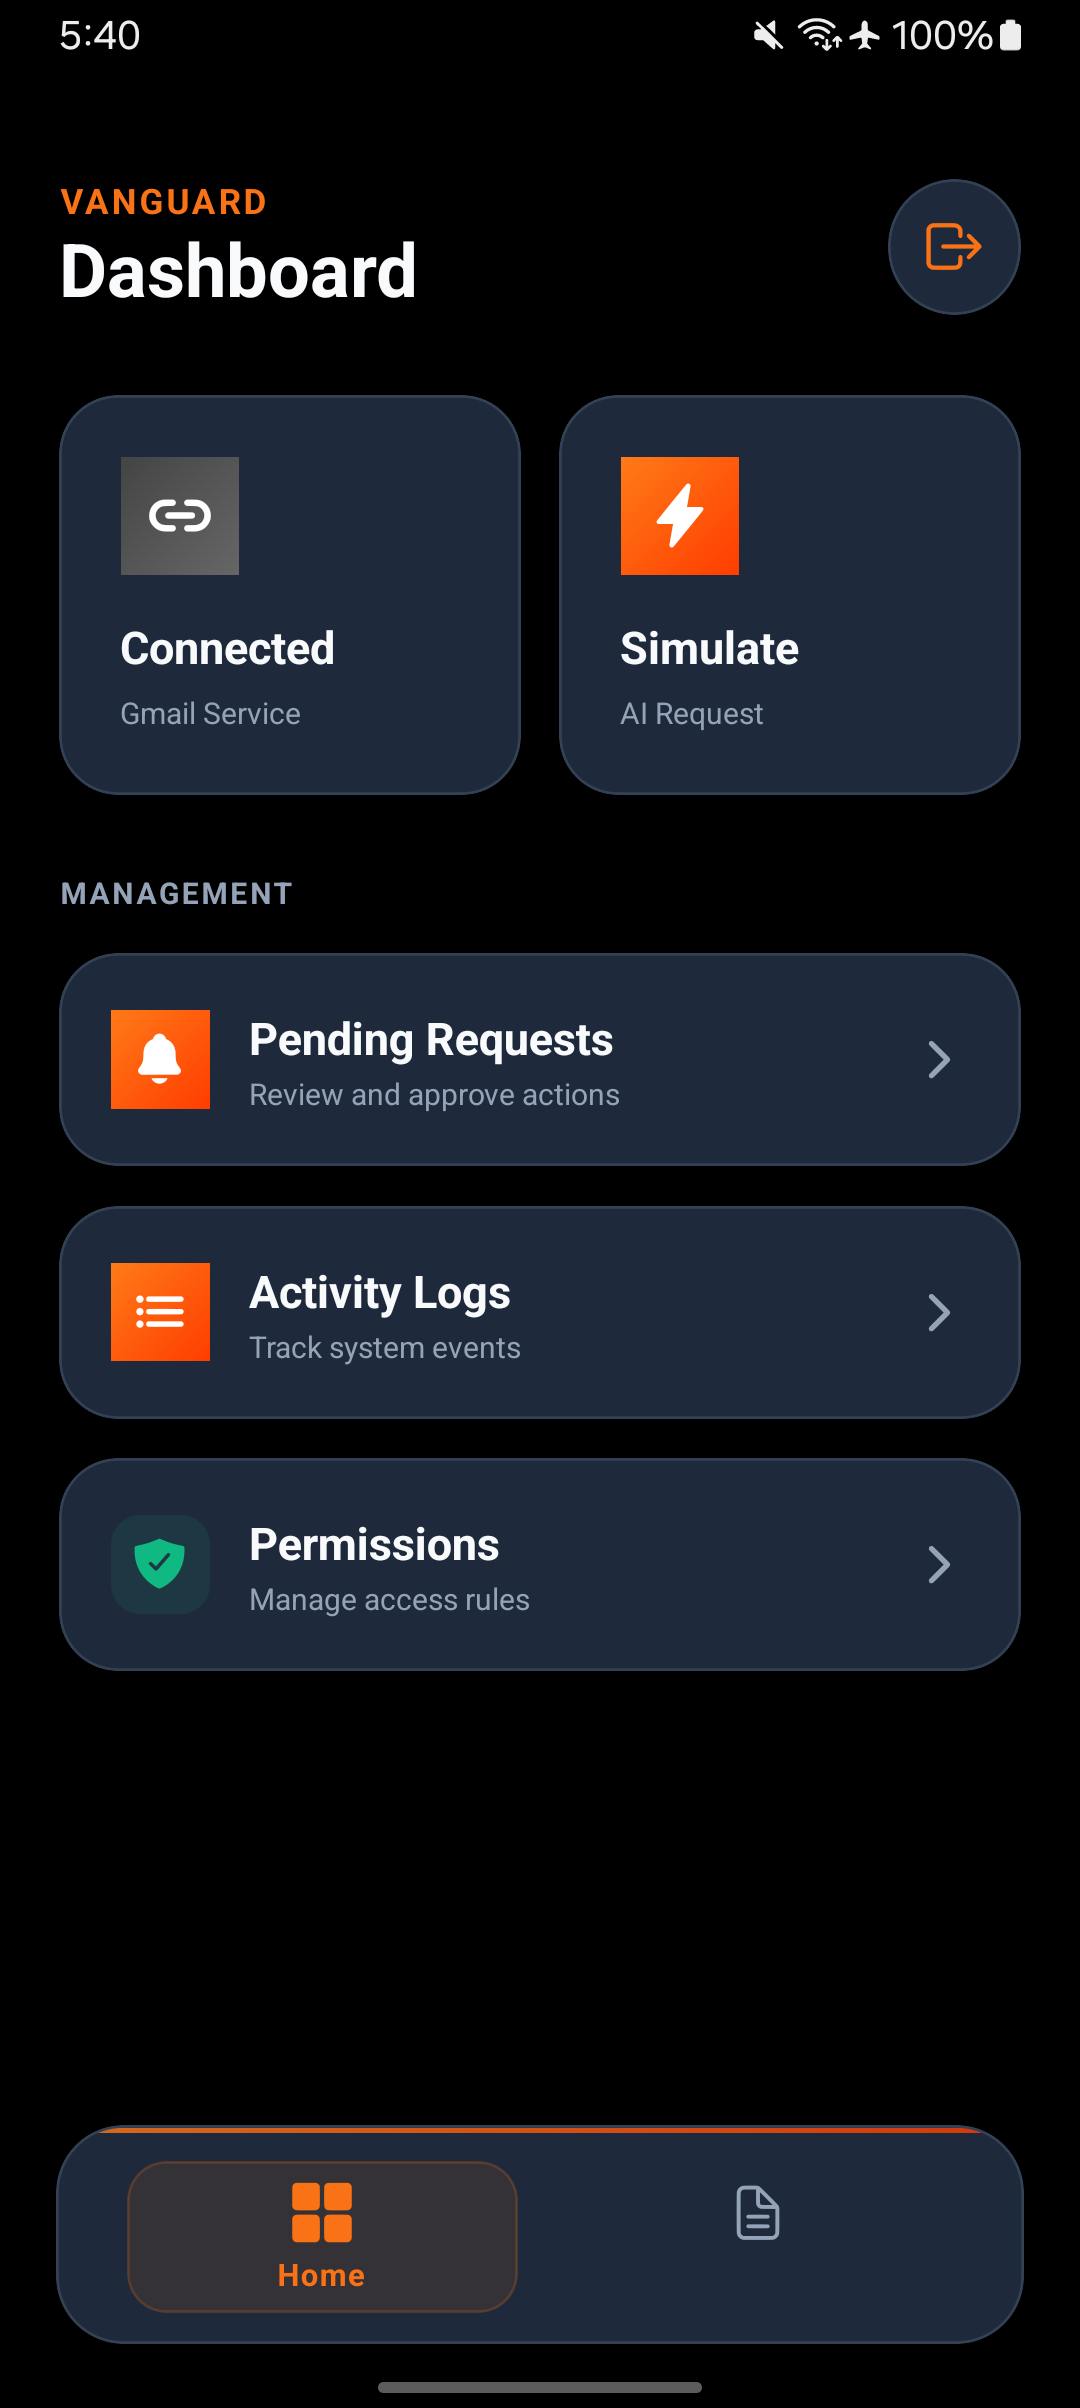
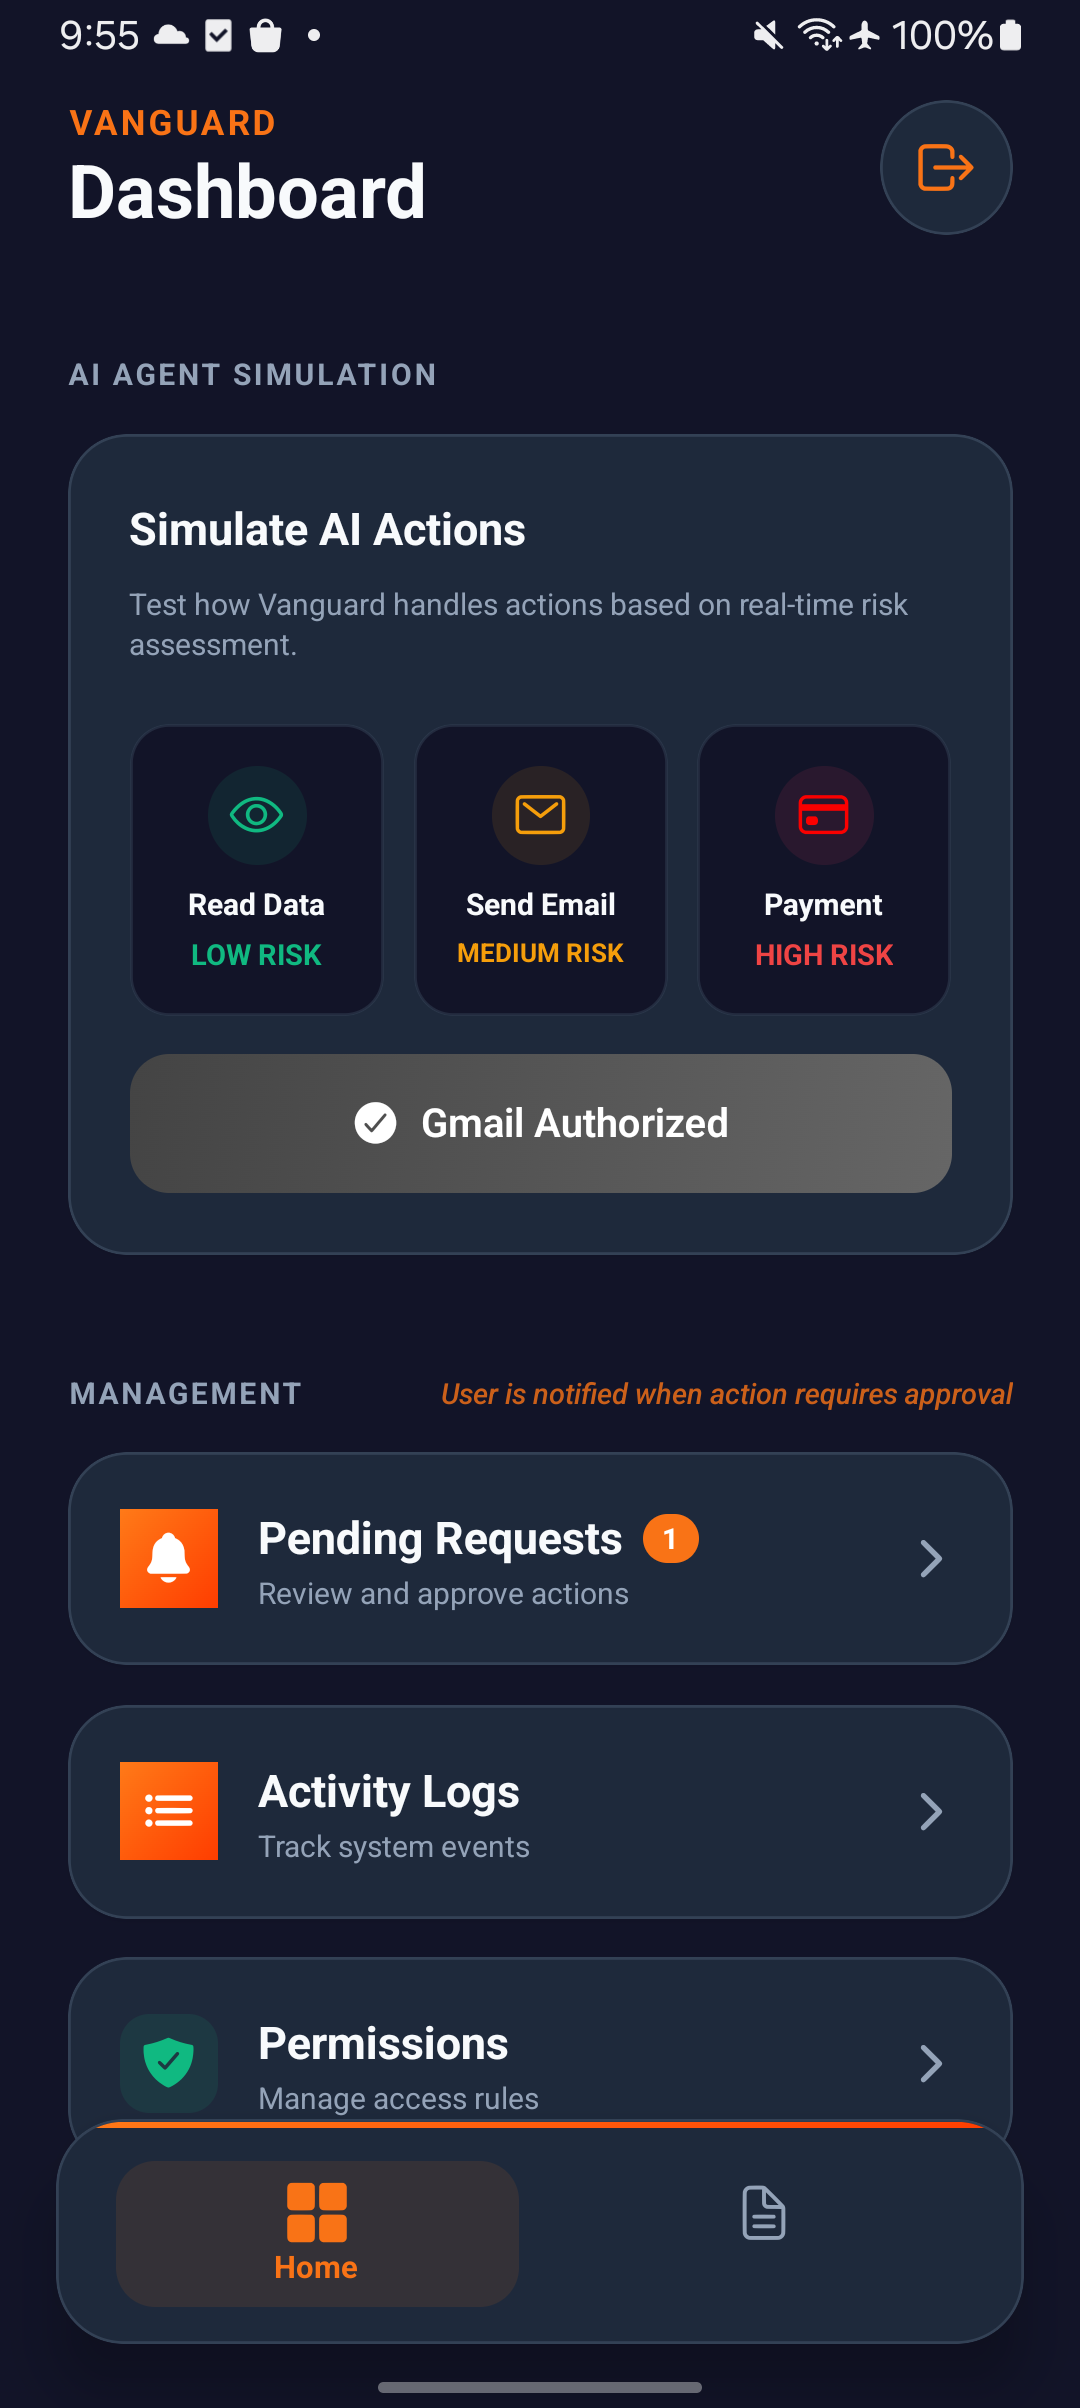
updated readme

diff --git a/Readme.md b/Readme.md
@@ -1,30 +1,70 @@
-# <img src="app/assets/images/logo.png" width="40" height="40" align="center" style="margin-right: 10px;"> Vanguard
+# <img src="screenshot/logo.png" width="40" height="40" align="center" style="margin-right: 10px;"> Vanguard
 
-### Secure AI Action Proxy with Permission Intelligence
+### The Permission Layer for Sovereign AI Agents
+
+**Secure Intermediary Proxy | Permission Intelligence | Auth0 Token Vault Integration**
 
 ---
 
 ## 🧠 The Problem
 
-As AI agents become more autonomous, they increasingly need to act on behalf of users—sending emails, managing calendars, or accessing sensitive data. However, letting an AI directly touch real-world APIs is a security nightmare. There is no fine-grained control, no audit trail, and no user-in-the-loop mechanism for high-stakes actions.
+AI agents increasingly act on behalf of users—sending emails, accessing data, and triggering real-world actions. However, letting an AI directly touch real-world APIs is a security nightmare. There is no runtime control, no audit trail, and no user approval for high-risk actions.
 
 ## 🛡 The Vanguard Solution
 
-**Vanguard** is a secure intermediary layer designed for the AI era. It intercepts every action an AI agent attempts, evaluates it against a robust permission engine, and securely executes it using Auth0-powered token vaulting.
+**Vanguard** is a secure intermediary layer designed for the AI era. It intercepts every action an AI agent attempts, evaluates it against a robust permission engine, and securely executes it using **Auth0** for identity and a **Vault-based token access model**.
 
-- **Stop Uncontrolled AI Actions**: Every API call is gated.
+👉 **Vanguard transforms AI systems from execution-first → control-first.**
+
+- **Stop Uncontrolled AI Actions**: Every API call is gated by default.
 - **User-Authored Decisions**: Users decide if an action is "Allowed Once", "Always Allowed", or "Denied".
 - **Zero-Trust Execution**: The AI never sees your Gmail/Slack tokens. Vanguard handles the execution securely.
 
 ---
 
 ## Screenshots
-<div align="center"> <img src="screenshot/login.png" width="250" alt="Login Screen"/> <img src="screenshot/login-web.png" width="250" alt="Web Login"/> <img src="screenshot/dashboard.png" width="250" alt="Dashboard"/>
+
+<div align="center"> 
+<img src="screenshot/login.png" width="250" alt="Login Screen"/> 
+<img src="screenshot/login-web.png" width="250" alt="Web Login"/> 
+<img src="screenshot/dashboard-1.png" width="250" alt="Dashboard"/>
+<img src="screenshot/dashboard.png" width="250" alt="Dashboard"/>
 
 <br/><br/>
 
-<img src="screenshot/pending-permission.png" width="250" alt="Pending Permissions"/> <img src="screenshot/permissions.png" width="250" alt="Permissions"/> <img src="screenshot/request-success.png" width="250" alt="Request Success"/> </div>
+<img src="screenshot/pending-permissions.png" width="250" alt="Pending Permissions"/> 
+<img src="screenshot/permissions.png" width="250" alt="Permissions"/> 
+<img src="screenshot/low-risk.png" width="250" alt="Request Success"/> 
+<img src="screenshot/logs.png" width="250" alt="Request Success"/> 
+</div>
 
+---
+
+## 🧪 Demo Flow
+
+1. **User triggers** an AI action.
+2. **Request** is sent to Vanguard backend.
+3. **Permission engine** evaluates risk and matching rules.
+4. **High-risk actions** require user approval (simulated via app notification).
+5. **Token retrieved** securely from backend (Vault layer backed by Auth0 identity).
+6. **Action executed** by Vanguard on behalf of the user.
+7. **Logs updated** for full audit transparency.
+
+---
+
+## 🔐 Security Principle
+
+Vanguard applies the **Principle of Least Privilege** to AI systems.
+
+Instead of giving AI unrestricted access, every action is:
+
+- **Explicitly authorized** by the user.
+- **Scoped** to the specific task.
+- **Executed** through a secure, isolated layer.
+
+👉 This shifts AI systems from **implicit trust → explicit control**.
+
+---
 
 ## 🔥 Key Features
 
@@ -33,7 +73,8 @@ As AI agents become more autonomous, they increasingly need to act on behalf of 
 Vanguard uses **Auth0** for seamless, enterprise-grade authentication.
 
 - **PKCE Flow**: Secure mobile authentication via native SDK.
-- **Token Vault**: Securely stores and retrieves service-specific tokens (Gmail, Slack, etc.) without exposing credentials to the AI.
+- **Token Vault**: Securely stores and retrieves service-specific tokens (Gmail, Slack, etc.).
+- **👉 Tokens are never exposed to the AI agent or frontend**—only Vanguard can access them after authorization.
 
 ### 🛑 2. Permission Intelligence System
 
@@ -54,22 +95,33 @@ Full traceability. Every decision (approved or denied) is logged with:
 
 ---
 
-## 🧱 Technical Architecture
+## 🏗 Technical Architecture
 
 ```mermaid
 graph TD
-    A[AI Agent] -->|Request Action| B[Vanguard Gateway]
+    A[Sovereign AI / OpenClaw] -->|1. Action Request| B[Vanguard Gateway]
     B --> C{Permission Engine}
-    C -->|Rules Match| D[Allowed]
     C -->|No Match| E[Pending User Approval]
-    E -->|Push Notification| F[Vanguard App]
-    F -->|User Decides| D
-    D -->|Retrieve Scoped Token| G[Auth0 Token Vault]
-    G -->|Signed Request| H[External API: Gmail/Slack/etc.]
-    H -->|Result| B
-    B -->|Response| A
-    B -->|Write Log| I[(Audit Logs)]
+    E -->|2. Push Notification| F[Vanguard Mobile App]
+    F -->|3. User Tap: Approve| D
+    C -->|Rule: Always Allow| D[Authorized]
+
+    D -->|4. Request Scoped Token| G[Auth0 Token Vault]
+    G -->|5. Short-lived Access Token| B
+    B -->|6. Signed API Call| H[External API: Gmail/Slack]
+    H -->|7. Result| B
+    B -->|8. Success Response| A
+    B -->|9. Write Log| I[(Audit Logs)]
 ```
+
+---
+
+## 🛠 Tech Stack
+
+- **Mobile:** [Expo](https://expo.dev/) (React Native) with [NativeWind](https://nativewind.dev/) (Tailwind CSS) for a modern, responsive UI.
+- **Backend:** [NestJS](https://nestjs.com/) (TypeScript) providing a robust, scalable REST API.
+- **Identity:** [Auth0 for AI Agents](https://auth0.com/) (Token Vault, M2M Authentication, Native SDK).
+- **AI Logic:** OpenAI GPT-4o-mini (used exclusively for intent parsing into JSON).
 
 ---
 
@@ -77,48 +129,51 @@ graph TD
 
 ### Prerequisites
 
-- **Node.js** (v18+)
-- **Expo Go** (for mobile development)
-- **Auth0 Account** (configured for Native and Server applications)
+- Node.js (v18+)
+- Expo Go on your mobile device
+- An Auth0 Tenant with Token Vault enabled
 
-### 1. Server Setup (NestJS)
+### 1. Backend Setup
 
 ```bash
-# Navigate to server
 cd server
-
-# Install dependencies
 npm install
-
-# Configure your .env (Auth0 Domain, Client ID, Secret)
+# Configure .env with AUTH0_DOMAIN, CLIENT_ID, and VAULT_API_URL
 npm run start:dev
 ```
 
-### 2. App Setup (Expo/React Native)
+### 2. Mobile App Setup
 
 ```bash
-# Navigate to app
 cd app
-
-# Install dependencies
 npm install
-
-# Ensure you have your Auth0 config in .env
 npx expo start
 ```
 
 ---
 
-## 🛠 Tech Stack
+## 🗺 Roadmap
 
-- **Mobile**: [Expo](https://expo.dev/), [React Native](https://reactnative.dev/), [NativeWind](https://nativewind.dev/), [Zustand](https://docs.pmnd.rs/zustand/), [Auth0 Native SDK](https://github.com/auth0/react-native-auth0).
-- **Backend**: [NestJS](https://nestjs.com/), TypeScript, [Axios](https://axios-http.com/).
-- **Security**: [Auth0](https://auth0.com/) (Identity, Token Vaulting, JWT).
+- [ ] **Biometric Gates:** Require FaceID/TouchID for every Token Vault retrieval.
+- [ ] **Dynamic Scoping:** Automatically narrow token scopes based on the specific AI prompt.
+- [ ] **Multi-Agent Support:** Unique permission profiles for different AI models (e.g., GPT-4 vs. local Llama).
 
 ---
 
-## 🗺 Roadmap
+## 🔮 Future Work
 
-- [ ] **AI-Powered Risk Scoring**: Real-time evaluation of action complexity.
-- [ ] **Expanded Integrations**: One-click connect for Zapier and IFTTT.
-- [ ] \*\*Fleet
+- [ ] **Biometric Gates**: Require FaceID/TouchID for every Token Vault retrieval.
+- [ ] **Dynamic Scoping**: Automatically narrow token scopes based on specific AI intent.
+- [ ] **Multi-Agent Support**: Unique permission profiles for different models (e.g., GPT-4 vs. local Llama).
+
+---
+
+## ⚡ Why This Matters
+
+AI systems today prioritize execution over safety. Vanguard introduces the missing layer of:
+
+- **Control**: Real-time gating of sensitive actions.
+- **Security**: Zero-exposure token management.
+- **Accountability**: Immutable audit logs of every AI decision.
+
+👉 **Enabling safe, controllable AI in real-world, high-stakes environments.**
